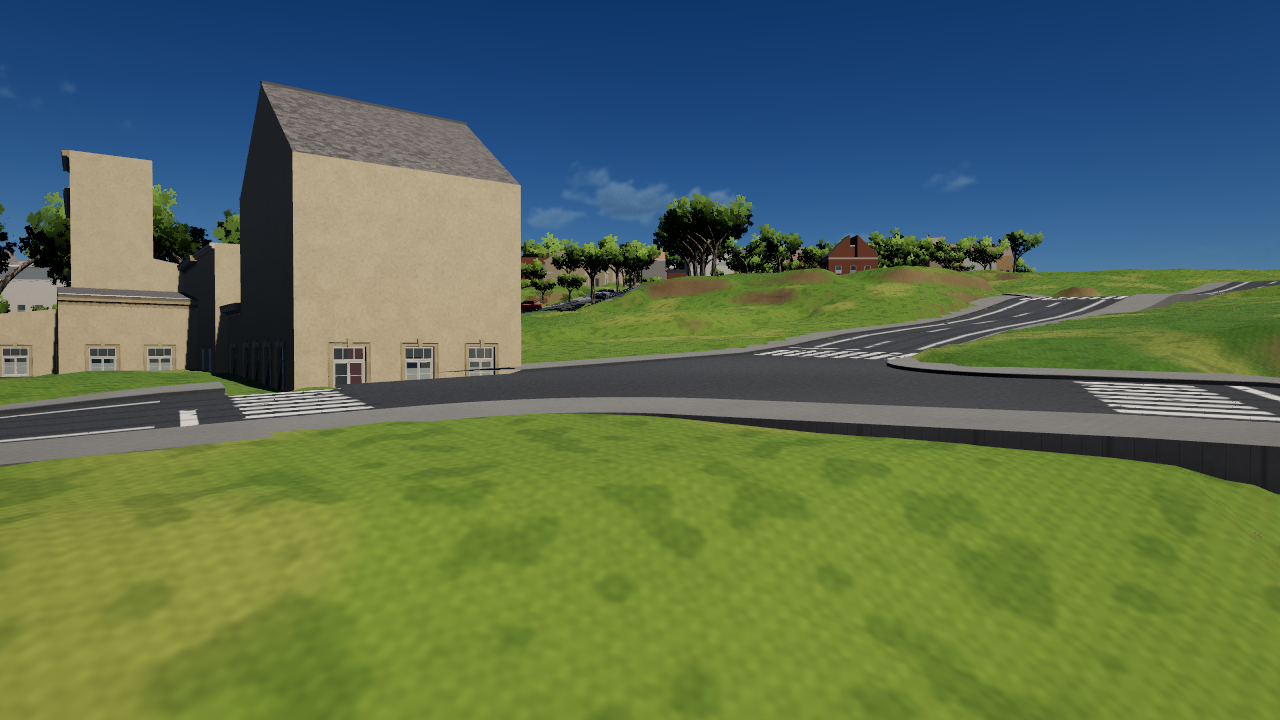
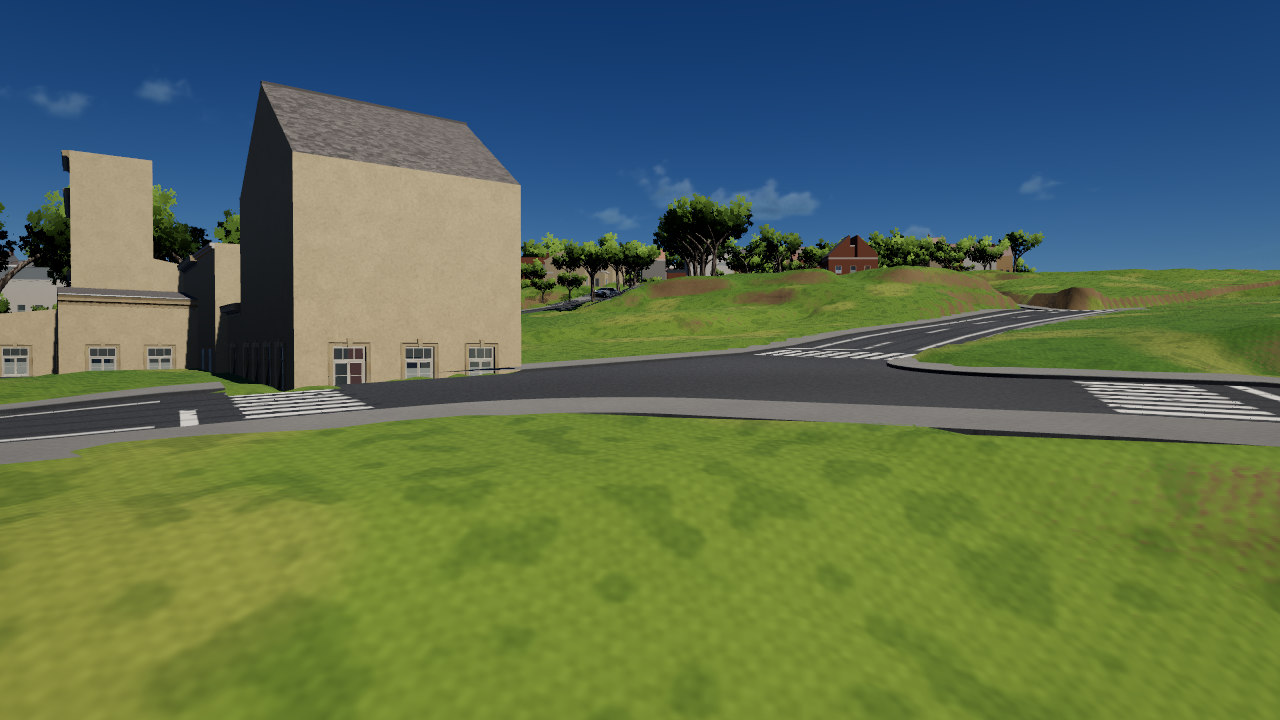
Roads round 5: Rue Edith Cavell without the guessed dashed centre line (the 2024 orthophoto shows none at four places; data/overrides.json centreLine by OSM way, applied by roadBuild.js applyRoadOverrides in the worker, the checker and the Road Lab); lane-graph before/after plots

diff --git a/labs/road-lab.js b/labs/road-lab.js
@@ -12,7 +12,7 @@ import { texture, uniform, float, vec3, uv, positionWorld, mix, smoothstep } fro
 import { Panel } from "../viewer/panelUI.js";
 import { Lighting } from "../viewer/lighting.js";
 import { Heightmap } from "../viewer/heightmap.js";
-import { buildRoadData } from "../viewer/roadBuild.js";
+import { buildRoadData, applyRoadOverrides } from "../viewer/roadBuild.js";
 import { roofGrid, onRoof } from "../viewer/tileData.js";
 import { paintInventory } from "../viewer/streets/inventory.js";
 import { asphaltMaterial, concreteMaterial, vergeMaterial, paintMaterial } from "../viewer/roadPaint.js";
@@ -76,7 +76,7 @@ async function tileRoads(T, paint) {
   const [hdr, buf, roads, surf, feats, bDoc, markings, ov] = await Promise.all([getJ(F.terrainHeader), getJ(F.terrain, true),
     v1Roads ? Promise.resolve(v1Roads) : getJ(F.roads), F.surfaces ? getJ(F.surfaces) : null, getJ(F.features), getJ(F.buildings),
     F.markings ? getJ(F.markings) : null, fetch("../data/overrides.json").then((r) => (r.ok ? r.json() : {})).catch(() => ({}))]);
-  for (const r of roads.roads) { const s = ov.roadSurface?.[r.id]; if (s) (r.meta ??= {}).surface = s; }
+  applyRoadOverrides(roads, ov);
   const hm = new Heightmap(hdr, buf);
   const roofs = roofGrid(bDoc, b);
   const rd = buildRoadData({ roads, surf, markings: paint === "v2" ? markings : null, hm, bounds: b, paint, trees: feats.trees, keep: true, onBuilding: (x, z) => onRoof(roofs, x, z) });

diff --git a/viewer/tileData.js b/viewer/tileData.js
@@ -9,7 +9,7 @@ import { analyseBuildings, hash01, wallStyle } from "./facadeGeom.js";
 import { landCoverData } from "./landcover.js";
 import { MeshoptSimplifier } from "meshoptimizer/simplifier";
 import { buildDriveData } from "./drive/colliders.js";
-import { buildRoadData, CARVE } from "./roadBuild.js";
+import { buildRoadData, applyRoadOverrides, CARVE } from "./roadBuild.js";
 import { smoothPolyline } from "./track.js";
 import { kitCollector } from "./facadeKit/placement.js";
 import { prepRail, abutmentFill, carveGrid, railTileData, railKeepClear, railVerges, roadDeckGround, roadDeckPins } from "./rail/railData.js";
@@ -129,7 +129,7 @@ export async function buildTileData(entry, base) {
   const surf = entry.surface && F.surfaces ? await step("fetch surfaces", () => get(F.surfaces)) : null;
   // hand corrections (data/overrides.json): road surfaces OSM gets wrong (Place de Saint-Job is setts)
   const ov = await overrides(base);
-  for (const r of roads.roads) { const s = ov.roadSurface?.[r.id]; if (s) (r.meta ??= {}).surface = s; }
+  applyRoadOverrides(roads, ov);
   const hm = new Heightmap(tHdr, tBuf);
   // measured markings (pipeline/build_markings.py): crossings, stop lines, lines, OSM crossing / control nodes
   const paint = entry.paint || PAINT;

diff --git a/viewer/tileWorker.bundle.js b/viewer/tileWorker.bundle.js
@@ -9390,6 +9390,14 @@ function compactAtlas(at) {
     stats: { regions: at.stats?.regions, bytes: d8.length, bytesBefore: at.data.length }
   };
 }
+function applyRoadOverrides(roads, ov) {
+  for (const r of roads.roads) {
+    const s = ov?.roadSurface?.[r.id];
+    if (s) (r.meta ??= {}).surface = s;
+    const way = /^r(\d+)_/.exec(r.id)?.[1], c = way ? ov?.centreLine?.[way] : null;
+    if (c === "none" && r.lanes) r.lanes = { ...r.lanes, center: { ...r.lanes.center || {}, kind: "none" } };
+  }
+}
 function buildRoadData(o) {
   const { roads, surf, hm, bounds, onBuilding = () => false } = o;
   const times = {};
@@ -11220,10 +11228,7 @@ async function buildTileData(entry, base) {
   }
   const surf = entry.surface && F.surfaces ? await step("fetch surfaces", () => get(F.surfaces)) : null;
   const ov = await overrides(base);
-  for (const r of roads.roads) {
-    const s = ov.roadSurface?.[r.id];
-    if (s) (r.meta ??= {}).surface = s;
-  }
+  applyRoadOverrides(roads, ov);
   const hm = new Heightmap(tHdr, tBuf);
   const paint = entry.paint || PAINT;
   const markings = F.markings && paint === "v2" ? await step("fetch markings", () => get(F.markings).catch(() => null)) : null;

diff --git a/viewer/roadBuild.js b/viewer/roadBuild.js
@@ -48,6 +48,16 @@ function compactAtlas(at) {
     stats: { regions: at.stats?.regions, bytes: d8.length, bytesBefore: at.data.length } };
 }
 
+/** data/overrides.json hand corrections on a tile's roads.json, before the road stage: roadSurface (road id -> OSM-style
+ *  surface) and centreLine (OSM way id -> "none": no centre line where the orthophoto shows none; round 5). */
+export function applyRoadOverrides(roads, ov) {
+  for (const r of roads.roads) {
+    const s = ov?.roadSurface?.[r.id]; if (s) (r.meta ??= {}).surface = s;
+    const way = /^r(\d+)_/.exec(r.id)?.[1], c = way ? ov?.centreLine?.[way] : null;
+    if (c === "none" && r.lanes) r.lanes = { ...r.lanes, center: { ...(r.lanes.center || {}), kind: "none" } };   // (built roads carry their stack)
+  }
+}
+
 /**
  * @param {object} o
  *   roads, surf (surfaces.json or null), markings (markings.json or null), hm (Heightmap), bounds {x0,x1,z0,z1},
